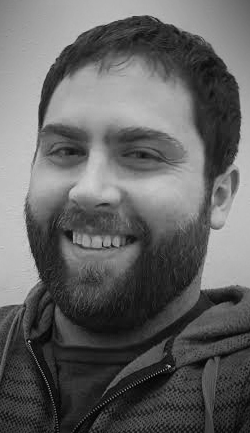
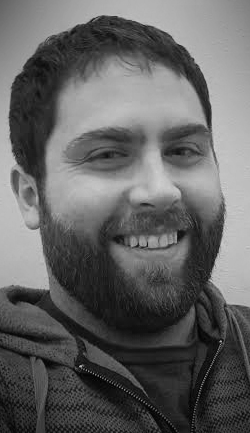
flip keiths image and fix company images

diff --git a/page-explore.php b/page-explore.php
@@ -149,7 +149,7 @@
         <!-- Portraits -->
         <div class="row">
         <!-- Mike -->
-          <div class="col-sm-6 col-md-3 col-lg-15 pad5">
+          <div class="col-sm-6 col-md-3 pad5">
             <a href="profile-mike">
             <div class="row portrait-container">
               <div class="row ptext">
@@ -162,7 +162,7 @@
             </a>
           </div><!-- END: Mike -->
           <!-- Greg Shives -->
-            <div class="col-sm-6 col-md-3 col-lg-15 pad5">
+            <div class="col-sm-6 col-md-3 pad5">
               <a href="profile-greg-shives">
               <div class="row portrait-container">
                 <div class="row ptext">
@@ -175,7 +175,7 @@
               </a>
             </div><!-- END: Greg Shives -->
           <!-- Greg -->
-            <div class="col-sm-6 col-md-3 col-lg-15 pad5">
+            <div class="col-sm-6 col-md-3 pad5">
               <a href="profile-greg">
               <div class="row portrait-container">
                 <div class="row ptext">
@@ -201,7 +201,7 @@
               </a>
             </div>END: Leo -->
           <!-- John -->
-            <div class="col-sm-6 col-md-3 col-lg-15 pad5">
+            <div class="col-sm-6 col-md-3 pad5">
               <a href="profile-john">
               <div class="row portrait-container">
                 <div class="row ptext">
@@ -214,7 +214,7 @@
               </a>
             </div><!-- END: John -->
           <!-- Keith -->
-            <div class="col-sm-6 col-md-3 col-lg-15 pad5">
+            <div class="col-sm-6 col-md-3 pad5">
               <a href="profile-keith">
               <div class="row portrait-container">
                 <div class="row ptext">
@@ -227,7 +227,7 @@
               </a>
             </div><!-- END: Keith -->
           <!-- Sarah -->
-            <div class="col-sm-6 col-md-3 col-lg-15 pad5">
+            <div class="col-sm-6 col-md-3 pad5">
               <a href="profile-sarah">
               <div class="row portrait-container">
                 <div class="row ptext">
@@ -240,7 +240,7 @@
               </a>
             </div><!-- END: Sarah -->
           <!-- Jason -->
-            <div class="col-sm-6 col-md-3 col-lg-15 pad5">
+            <div class="col-sm-6 col-md-3 pad5">
               <a href="profile-jason">
               <div class="row portrait-container">
                 <div class="row ptext">
@@ -253,7 +253,7 @@
               </a>
             </div><!-- END: Jason -->
           <!-- Jake -->
-            <div class="col-sm-6 col-md-3 col-lg-15 pad5">
+            <div class="col-sm-6 col-md-3 pad5">
               <a href="profile-jake">
               <div class="row portrait-container">
                 <div class="row ptext">
@@ -266,7 +266,7 @@
               </a>
             </div><!-- END: Jake -->
           <!-- Josephine -->
-            <div class="col-sm-6 col-md-3 col-lg-15 pad5">
+            <div class="col-sm-6 col-md-3 pad5">
               <a href="profile-josephine">
               <div class="row portrait-container">
                 <div class="row ptext">
@@ -293,7 +293,7 @@
             </div>END: Jen -->
 
           <!-- Cullen -->
-            <div class="col-sm-6 col-md-3 col-lg-15 pad5">
+            <div class="col-sm-6 col-md-3 pad5">
               <a href="profile-cullen">
               <div class="row portrait-container">
                 <div class="row ptext">
@@ -306,7 +306,7 @@
               </a>
             </div><!-- END: Cullen -->
           <!-- James -->
-            <div class="col-sm-6 col-md-3 col-lg-15 pad5">
+            <div class="col-sm-6 col-md-3 pad5">
               <a href="profile-james">
               <div class="row portrait-container">
                 <div class="row ptext">
@@ -319,7 +319,7 @@
               </a>
             </div><!-- END: James -->
           <!-- Tiffany -->
-            <div class="col-sm-6 col-md-3 col-lg-15 pad5">
+            <div class="col-sm-6 col-md-3 pad5">
               <a href="profile-tiffany">
               <div class="row portrait-container">
                 <div class="row ptext">
@@ -332,7 +332,7 @@
               </a>
             </div><!-- END: Tiffany -->
           <!-- Joey -->
-            <div class="col-sm-6 col-md-3 col-lg-15 pad5">
+            <div class="col-sm-6 col-md-3 pad5">
               <a href="profile-joey">
               <div class="row portrait-container">
                 <div class="row ptext">
@@ -345,7 +345,7 @@
               </a>
             </div><!-- END: Joey -->
           <!-- Mohammad -->
-            <div class="col-sm-6 col-md-3 col-lg-15 pad5">
+            <div class="col-sm-6 col-md-3 pad5">
               <a href="profile-mohammad">
               <div class="row portrait-container">
                 <div class="row ptext">
